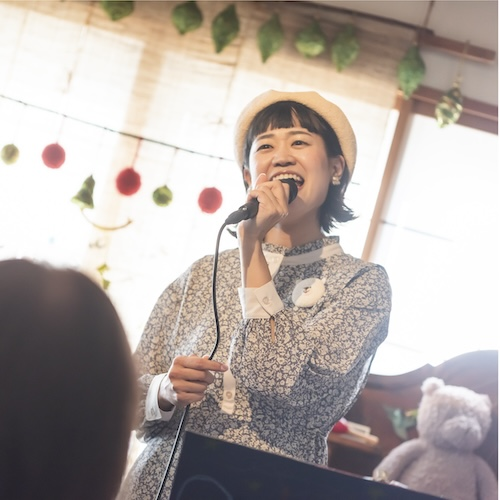
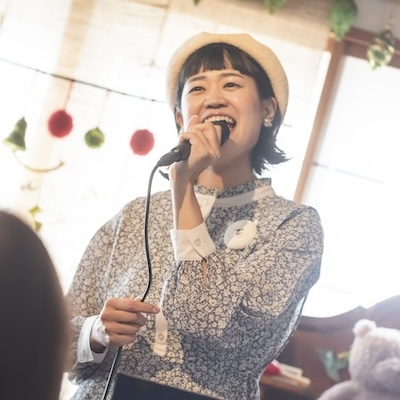
deploy

diff --git a/components/Performers.tsx b/components/Performers.tsx
@@ -1,10 +1,13 @@
+/* eslint-disable @next/next/no-img-element */
 "use client";
 
 import SectionContainer from "./SectionContainer";
 import SectionHead from "./SectionHead";
 import Mic from "./icons/Mic";
 import Piano from "./icons/Piano";
-import React from "react";
+import McImg from "./assets/Mc.jpg";
+import HashizumeImg from "./assets/_hashizume.jpg";
+import TsukaTImg from "./assets/_tsuka-t.jpg";
 
 function Performers() {
   return (
@@ -12,6 +15,24 @@ function Performers() {
       <SectionHead topLeftIcon={<Mic />} topRightIcon={<Piano />}>
         出演者
       </SectionHead>
+      <div className="grid grid-cols-1 md:grid-cols-3 gap-8">
+        <div className="flex flex-col items-center justify-center mt-4">
+          <img className="rounded-full" src={McImg.src} alt="hashizume" />
+          <p className="mt-4 text-lg">Mc Gilbert</p>
+        </div>
+        <div className="flex flex-col items-center justify-center mt-4">
+          <img
+            className="rounded-full"
+            src={HashizumeImg.src}
+            alt="hashizume"
+          />
+          <p className="mt-4 text-lg">橋爪 紋佳</p>
+        </div>
+        <div className="flex flex-col items-center justify-center mt-4">
+          <img className="rounded-full" src={TsukaTImg.src} alt="hashizume" />
+          <p className="mt-4 text-lg">つかT</p>
+        </div>
+      </div>
     </SectionContainer>
   );
 }

diff --git a/app/layout.tsx b/app/layout.tsx
@@ -1,5 +1,6 @@
 import type { Metadata } from "next";
 import { Geist, Geist_Mono } from "next/font/google";
+import favicon from "../public/favicon.svg";
 import "./globals.css";
 
 const geistSans = Geist({
@@ -15,6 +16,12 @@ const geistMono = Geist_Mono({
 export const metadata: Metadata = {
   title: "McGilbert 橋爪紋佳 つかT Xmas Cafe Live",
   description: "ライブの来場予約はこちらから",
+  icons: [
+    {
+      rel: "icon",
+      url: favicon.src,
+    },
+  ],
 };
 
 export default function RootLayout({

diff --git a/components/Detail.tsx b/components/Detail.tsx
@@ -29,6 +29,7 @@ function Detail(props: Props) {
           {/* <p>z</p> */}
           <p>{props.title}</p>
           <h3 className="mt-5 text-xl font-bold">出演</h3>
+          <p>vocal Mc Gilbert</p>
           <p>vocal 橋爪紋佳</p>
           <p>piano 塚本英之(つかT)</p>
           {props.guests &&
